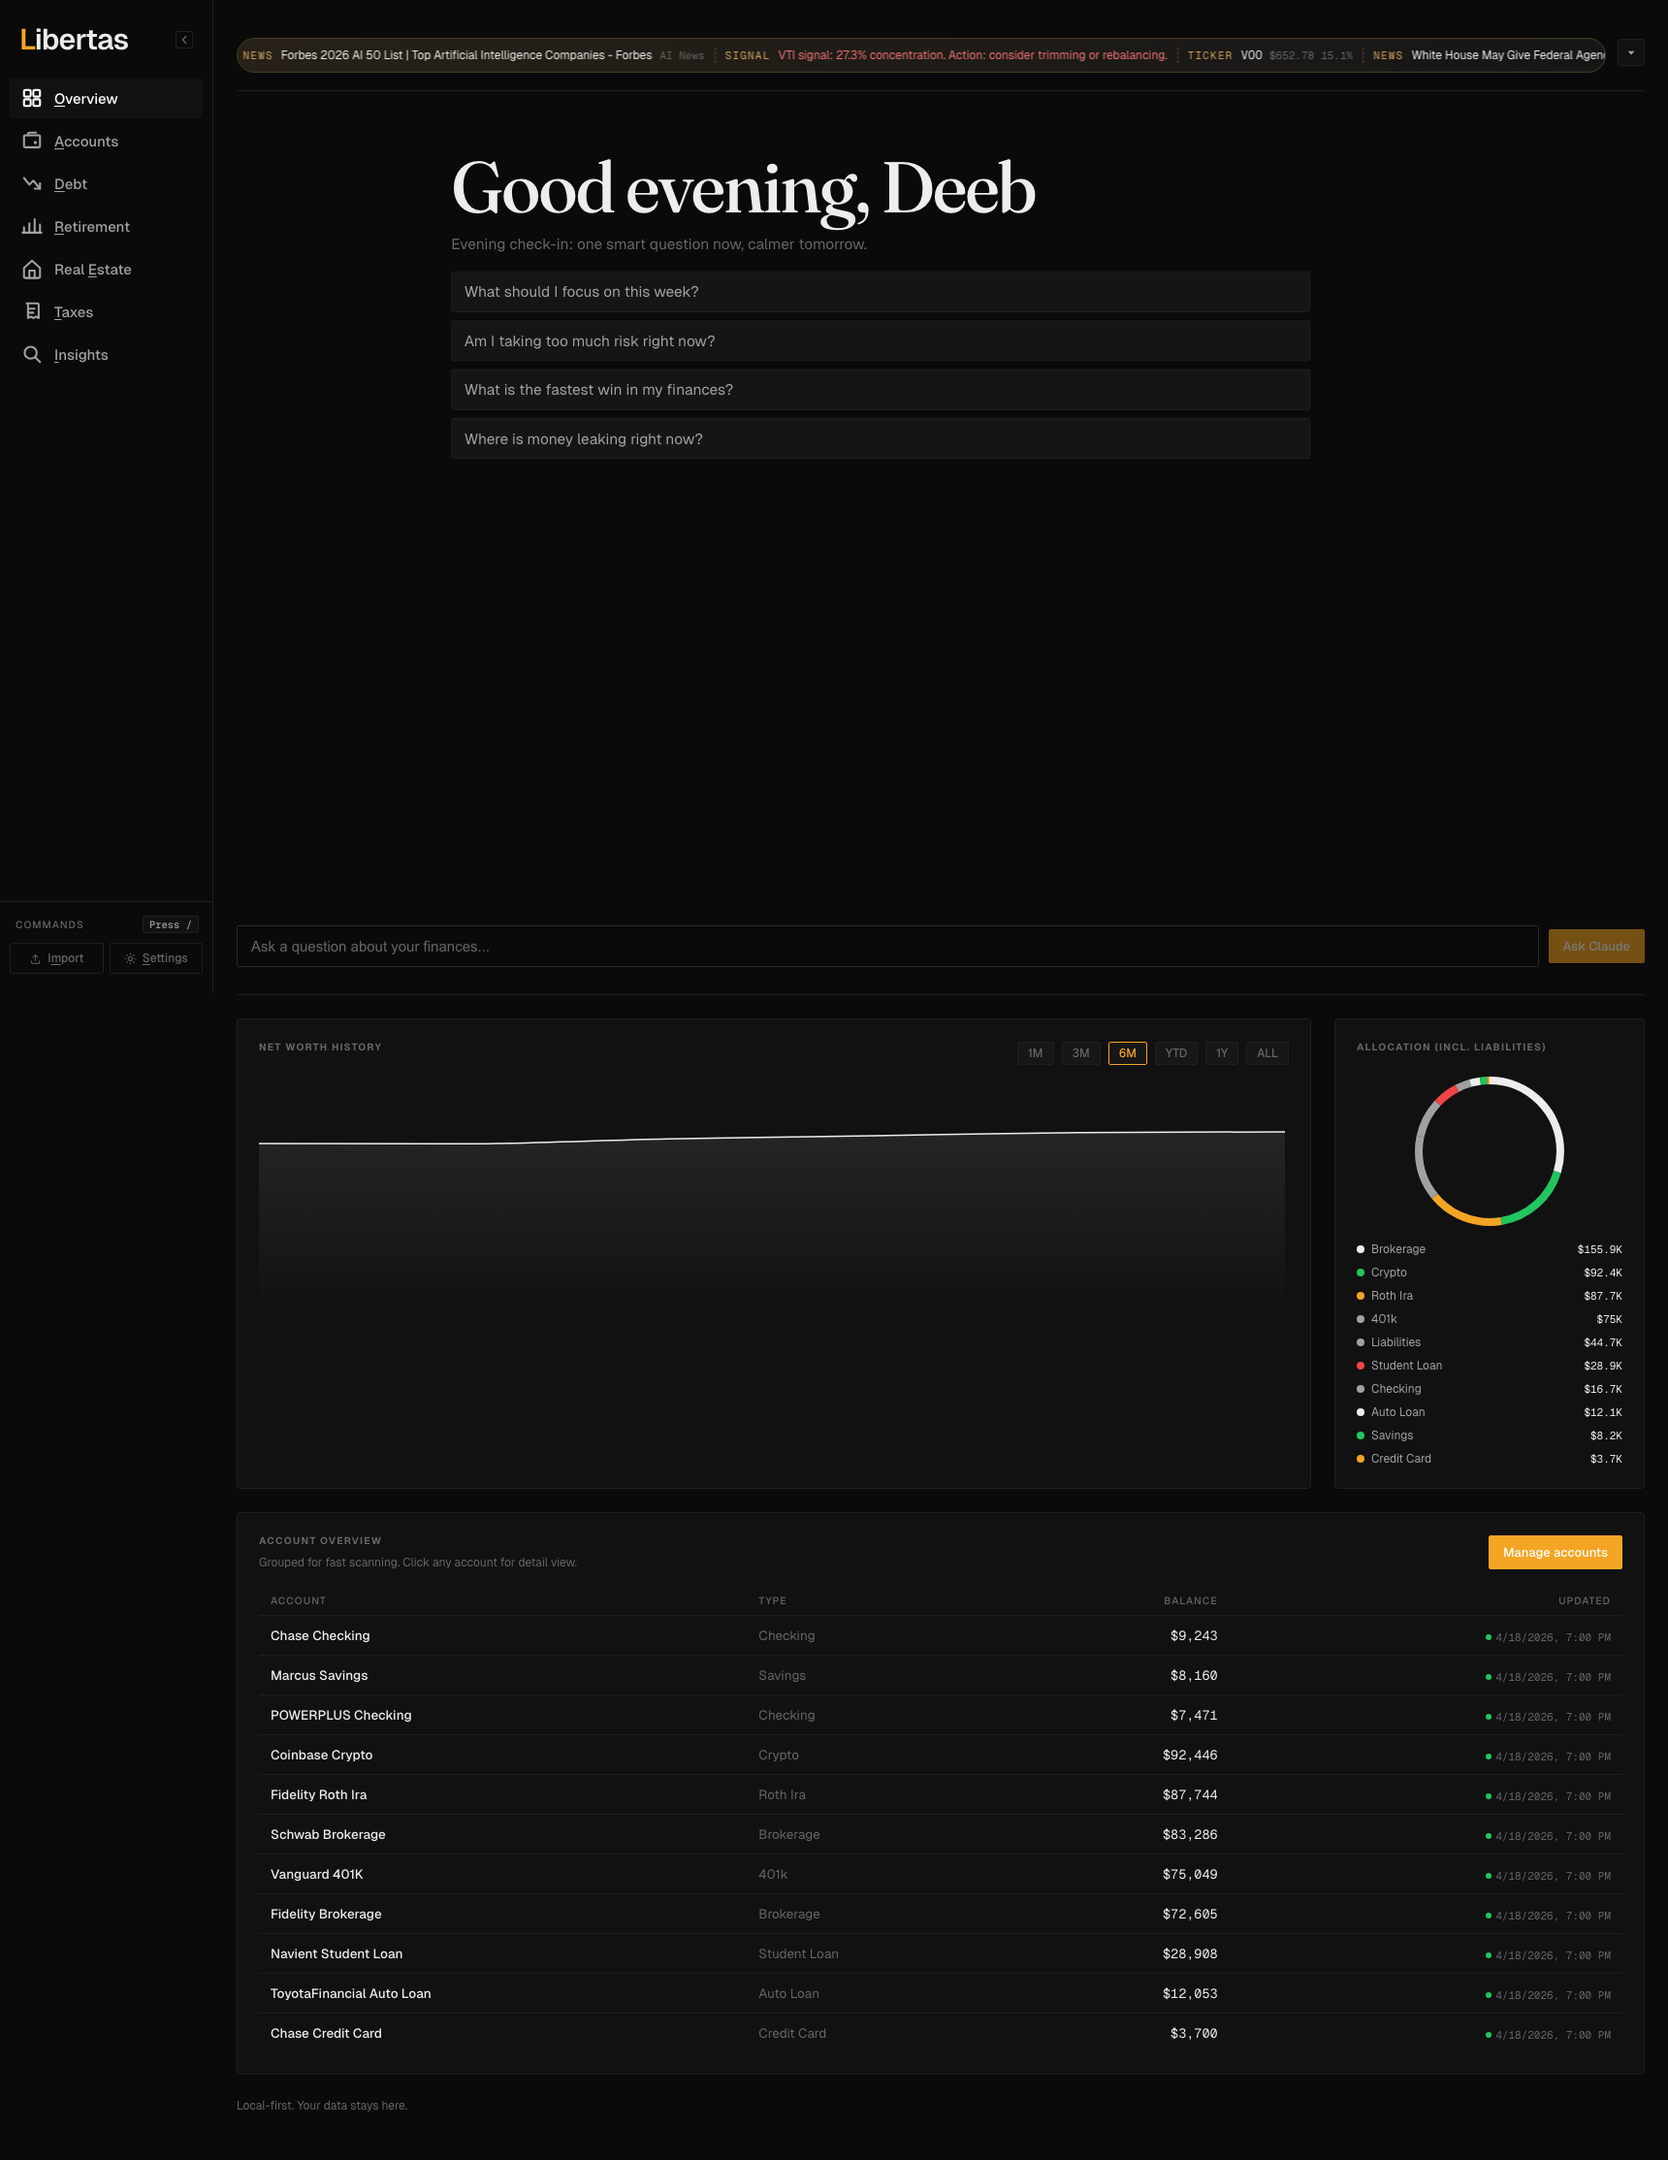
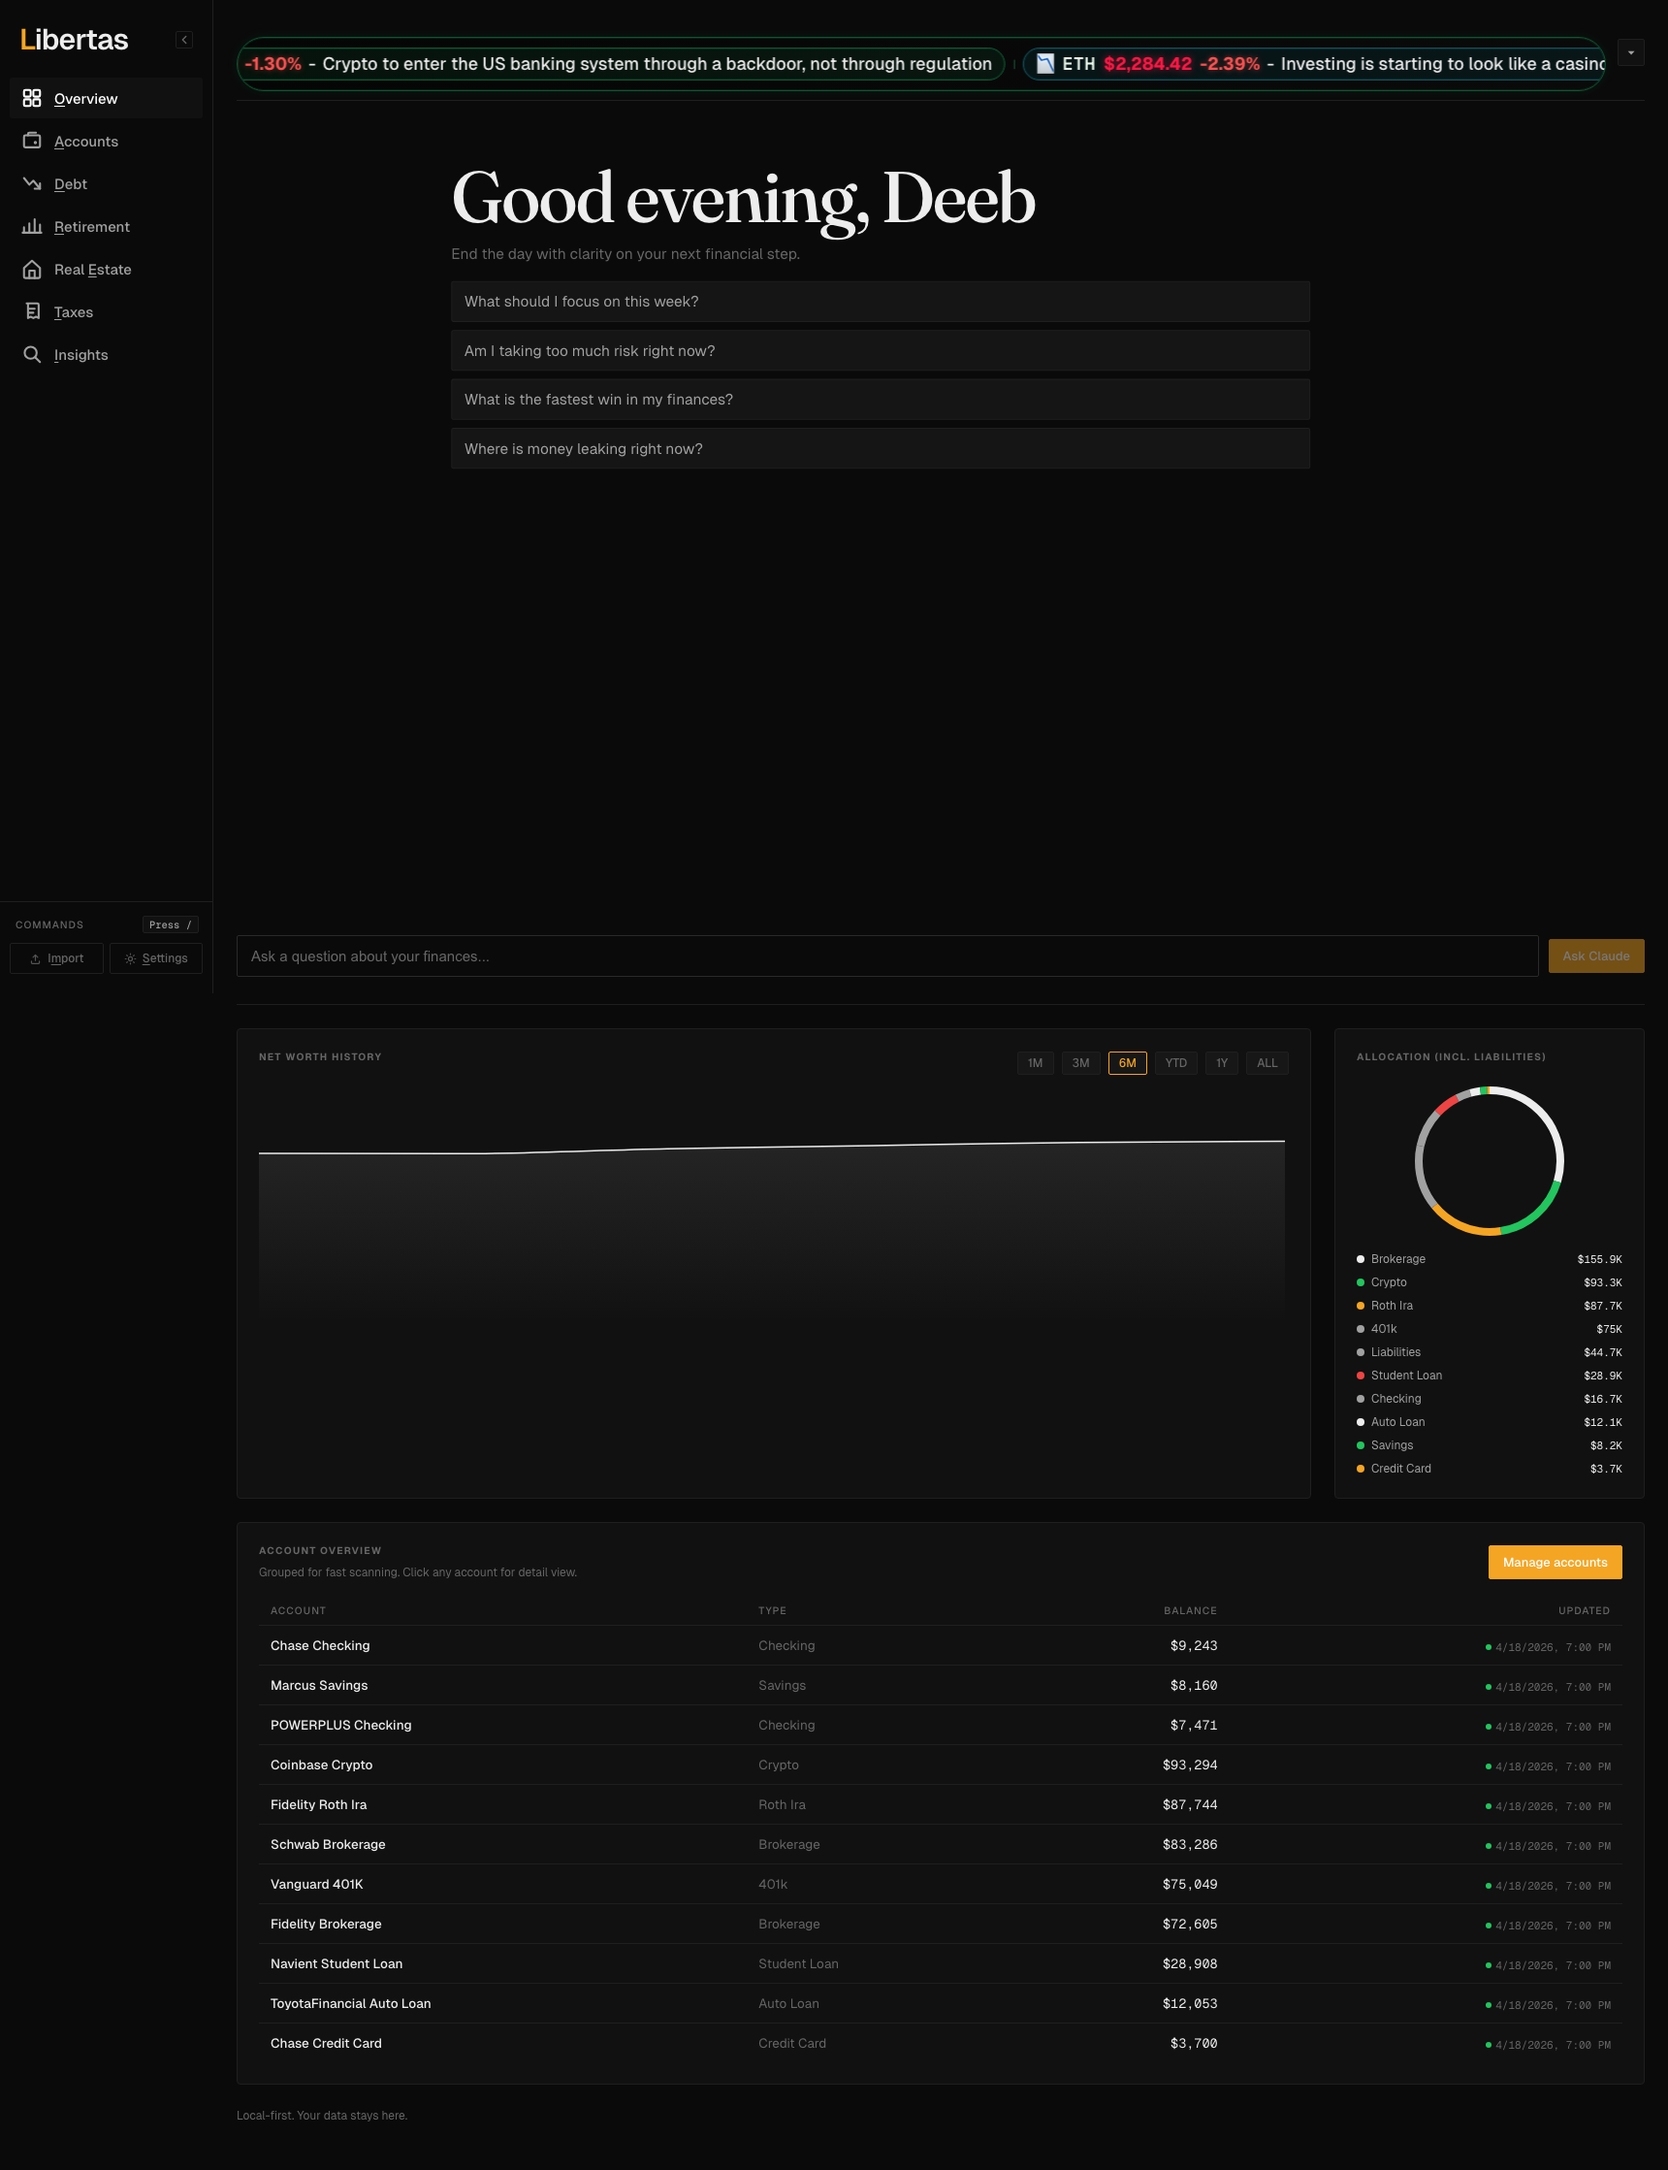
docs: refresh screenshots and update README + docs for neon ticker and drag tape

diff --git a/README.md b/README.md
@@ -11,14 +11,14 @@ Libertas is a self-hosted personal finance dashboard built for people who want t
   &nbsp;
   <img src="docs/public/screenshots/overview-retro.png" width="48%" alt="Retro theme" />
 </p>
-<p align="center"><em>✦ Onyx (left) · Retro (right) — both include the live ticker -> news -> signal tape on collapsed Overview ✦</em></p>
+<p align="center"><em>✦ Onyx (left) · Retro (right) — live market tape with drag-to-scroll, throw momentum, and NASDAQ-style neon ticker on Onyx ✦</em></p>
 
 ---
 
 ## ✨ What you get
 
 - 📊 **Net worth dashboard** — history, range controls, 30-day delta, account drill-in
-- 📰 **Live market tape** — collapsed Overview cycles ticker -> related headline -> position signal
+- 📰 **Live market tape** — NASDAQ-style neon ticker on Onyx; drag to scroll, throw to fling with momentum
 - 🏦 **Full account coverage** — brokerages, banks, crypto, real estate, debt, retirement
 - 🧠 **Insights engine** — 15 deterministic rules, runs 100% offline, no AI required
 - 🔥 **Retirement planner** — 5 FIRE types, projections, contribution tracking

diff --git a/docs/index.md b/docs/index.md
@@ -65,7 +65,7 @@ hero:
 <section class="lp-section lp-highlight">
   <p class="lp-kicker">Now shipping</p>
   <h2>Built for real-world messiness.</h2>
-  <p class="lp-copy">Current updates improve confidence and control: manual account workflows, import quality warnings, rollback safety, debt payoff details, freshness indicators, and a collapsed Overview live tape that groups ticker -> related headline -> position signal.</p>
+  <p class="lp-copy">Current updates improve confidence and control: manual account workflows, import quality warnings, rollback safety, debt payoff details, freshness indicators, a live market tape with drag-to-scroll and throw momentum, and a NASDAQ-style neon ticker on the Onyx theme.</p>
 </section>
 
 <section class="lp-section lp-highlight">
